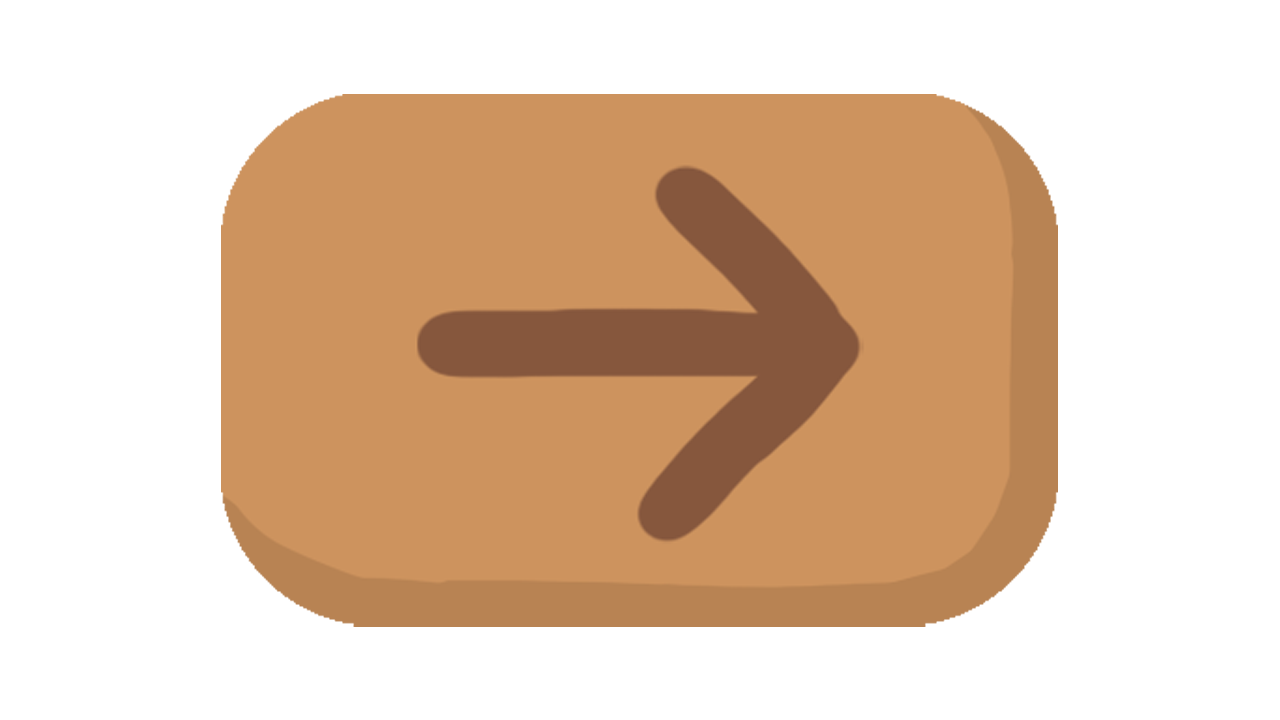
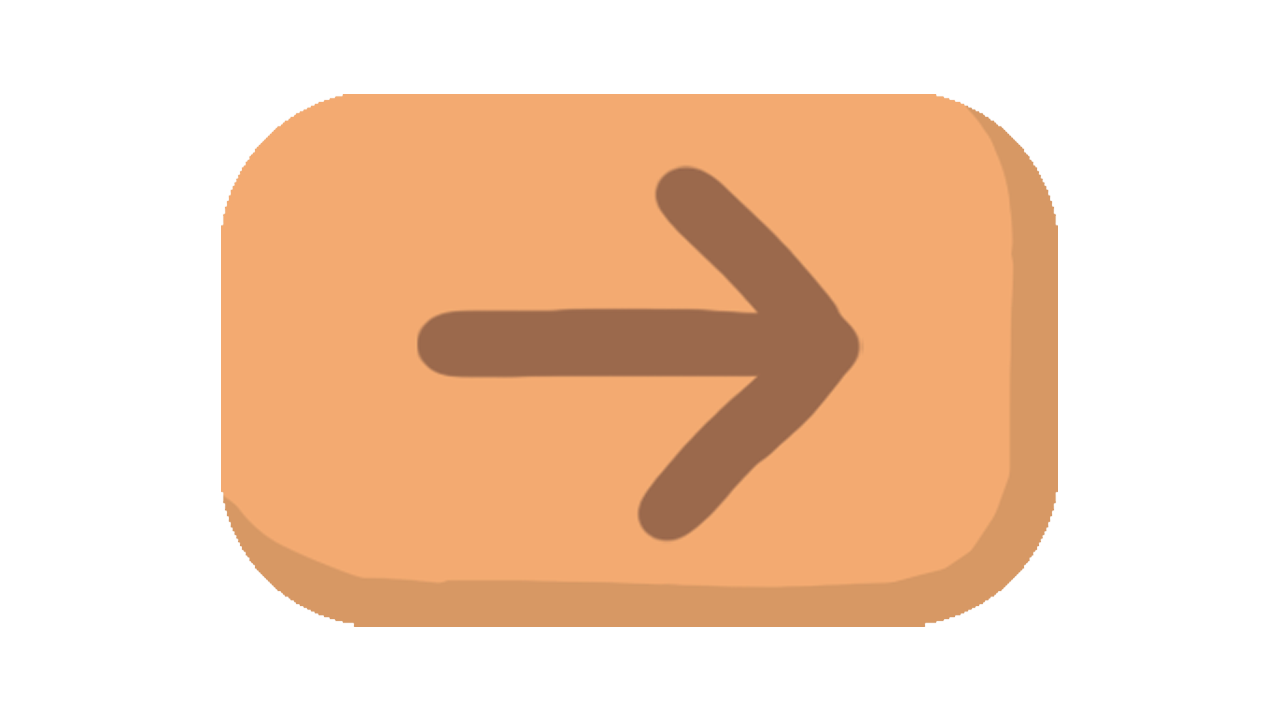
bottoni def webapp

diff --git a/story.html b/story.html
@@ -67,7 +67,7 @@
         .tavola2-link {
             right: -5.5%;
             bottom: -1.5%;
-            background-image: url('IMG/bottonefreccia2.png');
+            background-image: url('IMG/bottonefreccia.png');
         }
 
         /* Effetto al passaggio del mouse per i bottoni */